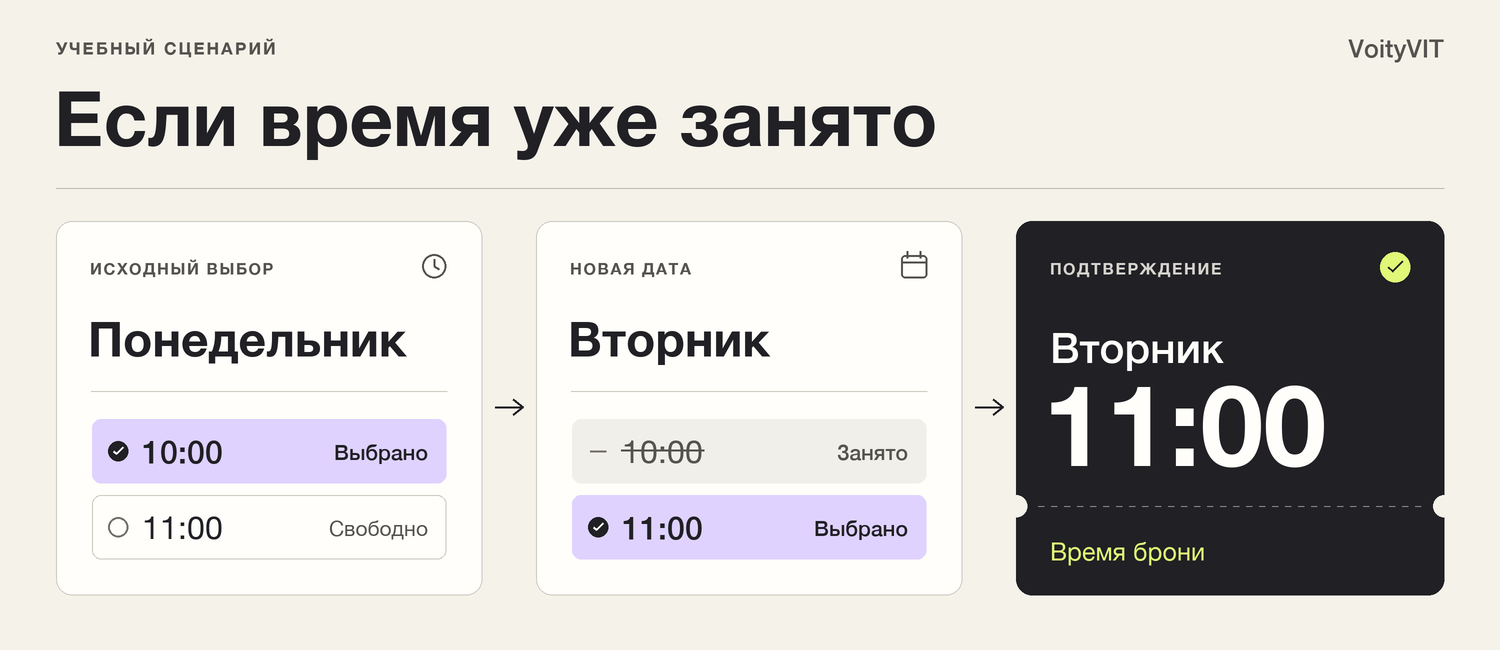
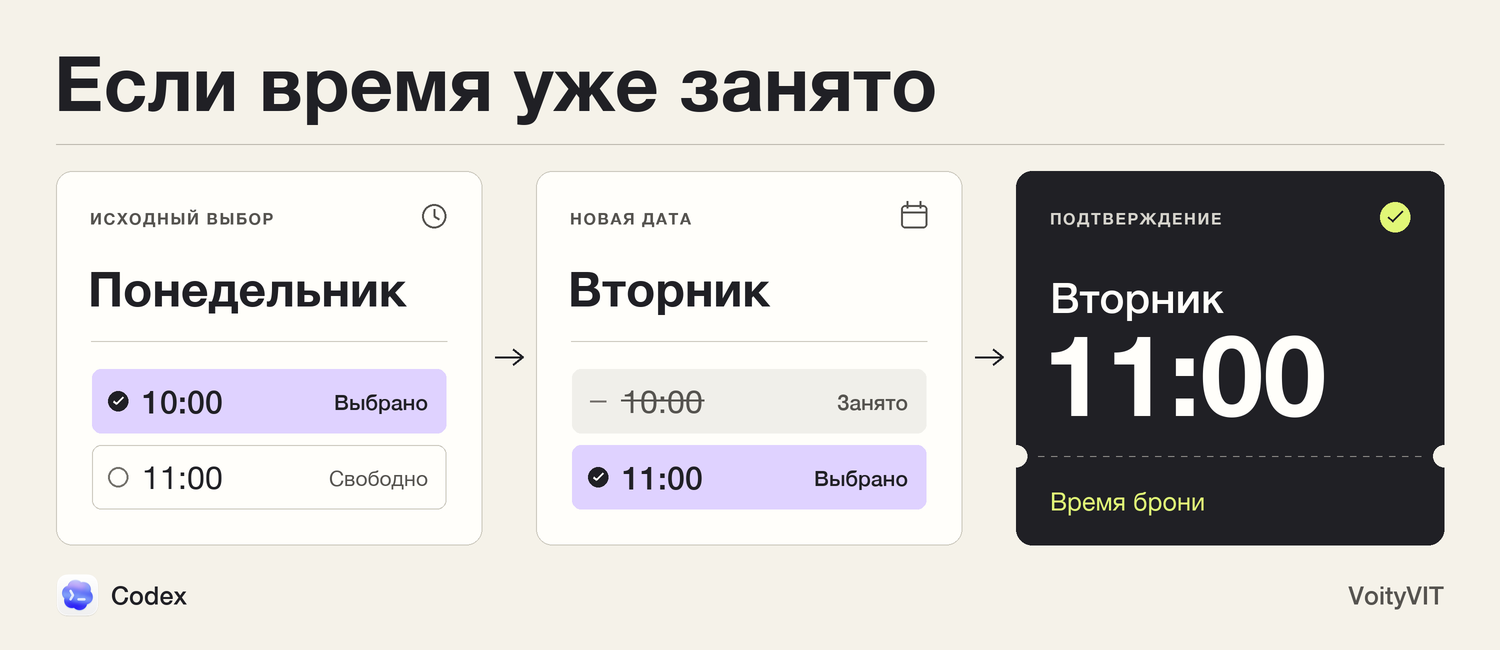
Move Codex marks to the artwork footers

diff --git a/design/WORKING-AGREEMENT.md b/design/WORKING-AGREEMENT.md
@@ -44,6 +44,8 @@
 
 ## Как сдавать
 
+На обложках, схемах и страницах README по умолчанию пропускай декоративный надзаголовок (HeadTitle). Одного названия обычно достаточно. Контекст учебного примера можно пояснить в сопровождающем тексте, а подпись платформы поставить у нижней кромки рядом с её иконкой.
+
 Дай результат в запрошенном формате. Для редактируемой правки нужна ссылка на конкретный объект, для прототипа — точка входа, для рисунка — само изображение, для документа — открываемый файл. На вопрос о термине или списке можно ответить прямо в сообщении.
 
 Укажи, что получилось и как именно это проверено. Достаточно одной фразы про существенное самостоятельное решение или оставшееся ограничение, если оно есть. При независимом ревью сохрани привязку каждой находки к экрану, затруднению человека и одной конкретной правке. [Поручения рецензентам](../SUBAGENTS.md) · [Готовые запросы](RECIPES.md)

diff --git a/README.md b/README.md
@@ -1,8 +1,6 @@
 ![Product Design Kit — инструменты для продуктового дизайна в Codex](docs/media/cover.png)
 
-# Продуктовый дизайн в Codex
-
-Комплект для работы с живыми макетами Figma. Можно попросить Codex поправить один экземпляр, собрать переход между экранами или дать макет на пять независимых рецензий. Формат результата задаёт сама задача — от одной подписи до кликабельного прототипа.
+Комплект для работы с живыми макетами Figma в Codex. Можно попросить агента поправить один экземпляр, собрать переход между экранами или дать макет на пять независимых рецензий. Формат результата задаёт сама задача — от одной подписи до кликабельного прототипа.
 
 **[Подключить к проекту](SETUP-PROMPT.md)** · [16 готовых запросов](design/RECIPES.md) · [Разобрать пример](PORTFOLIO.md)
 
